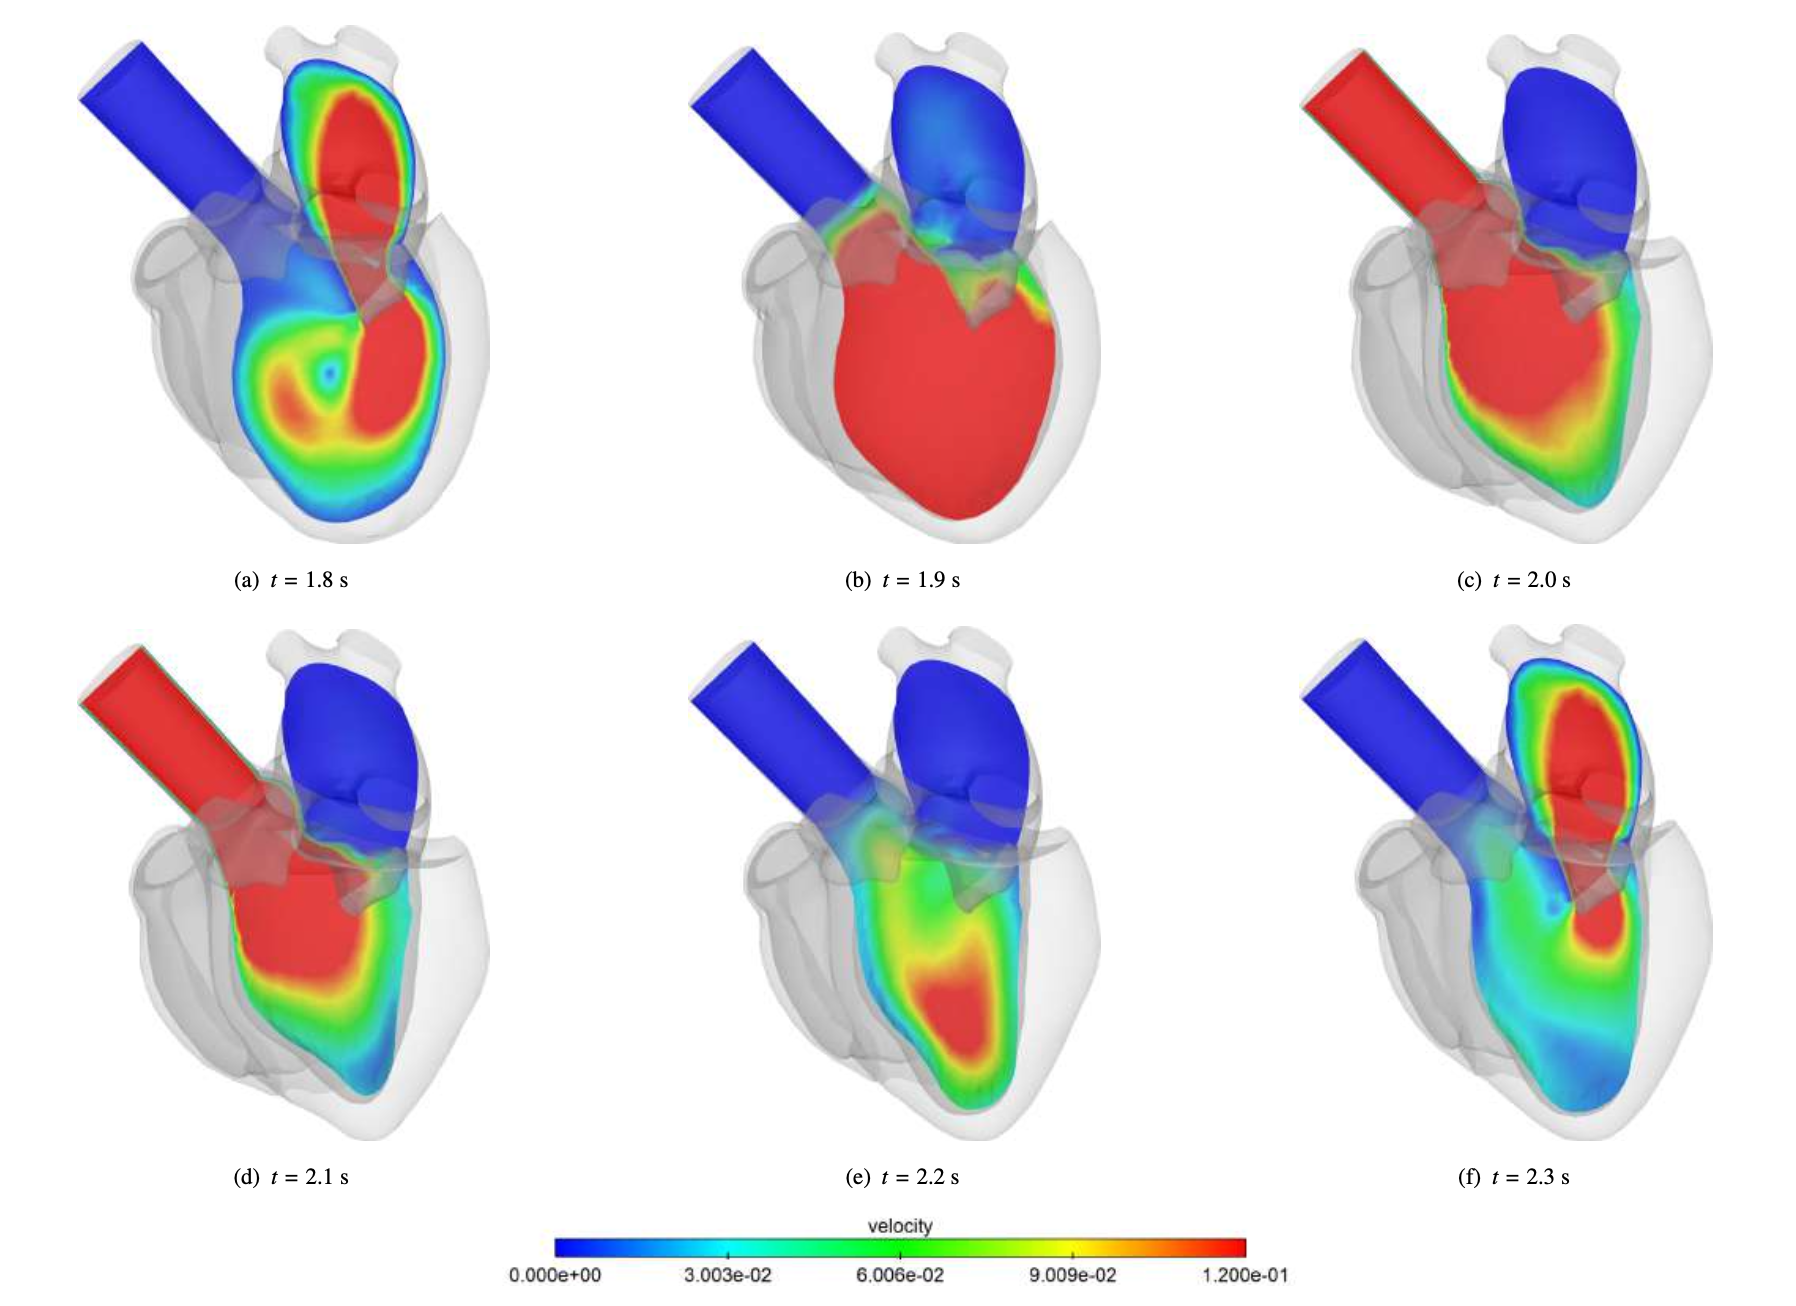
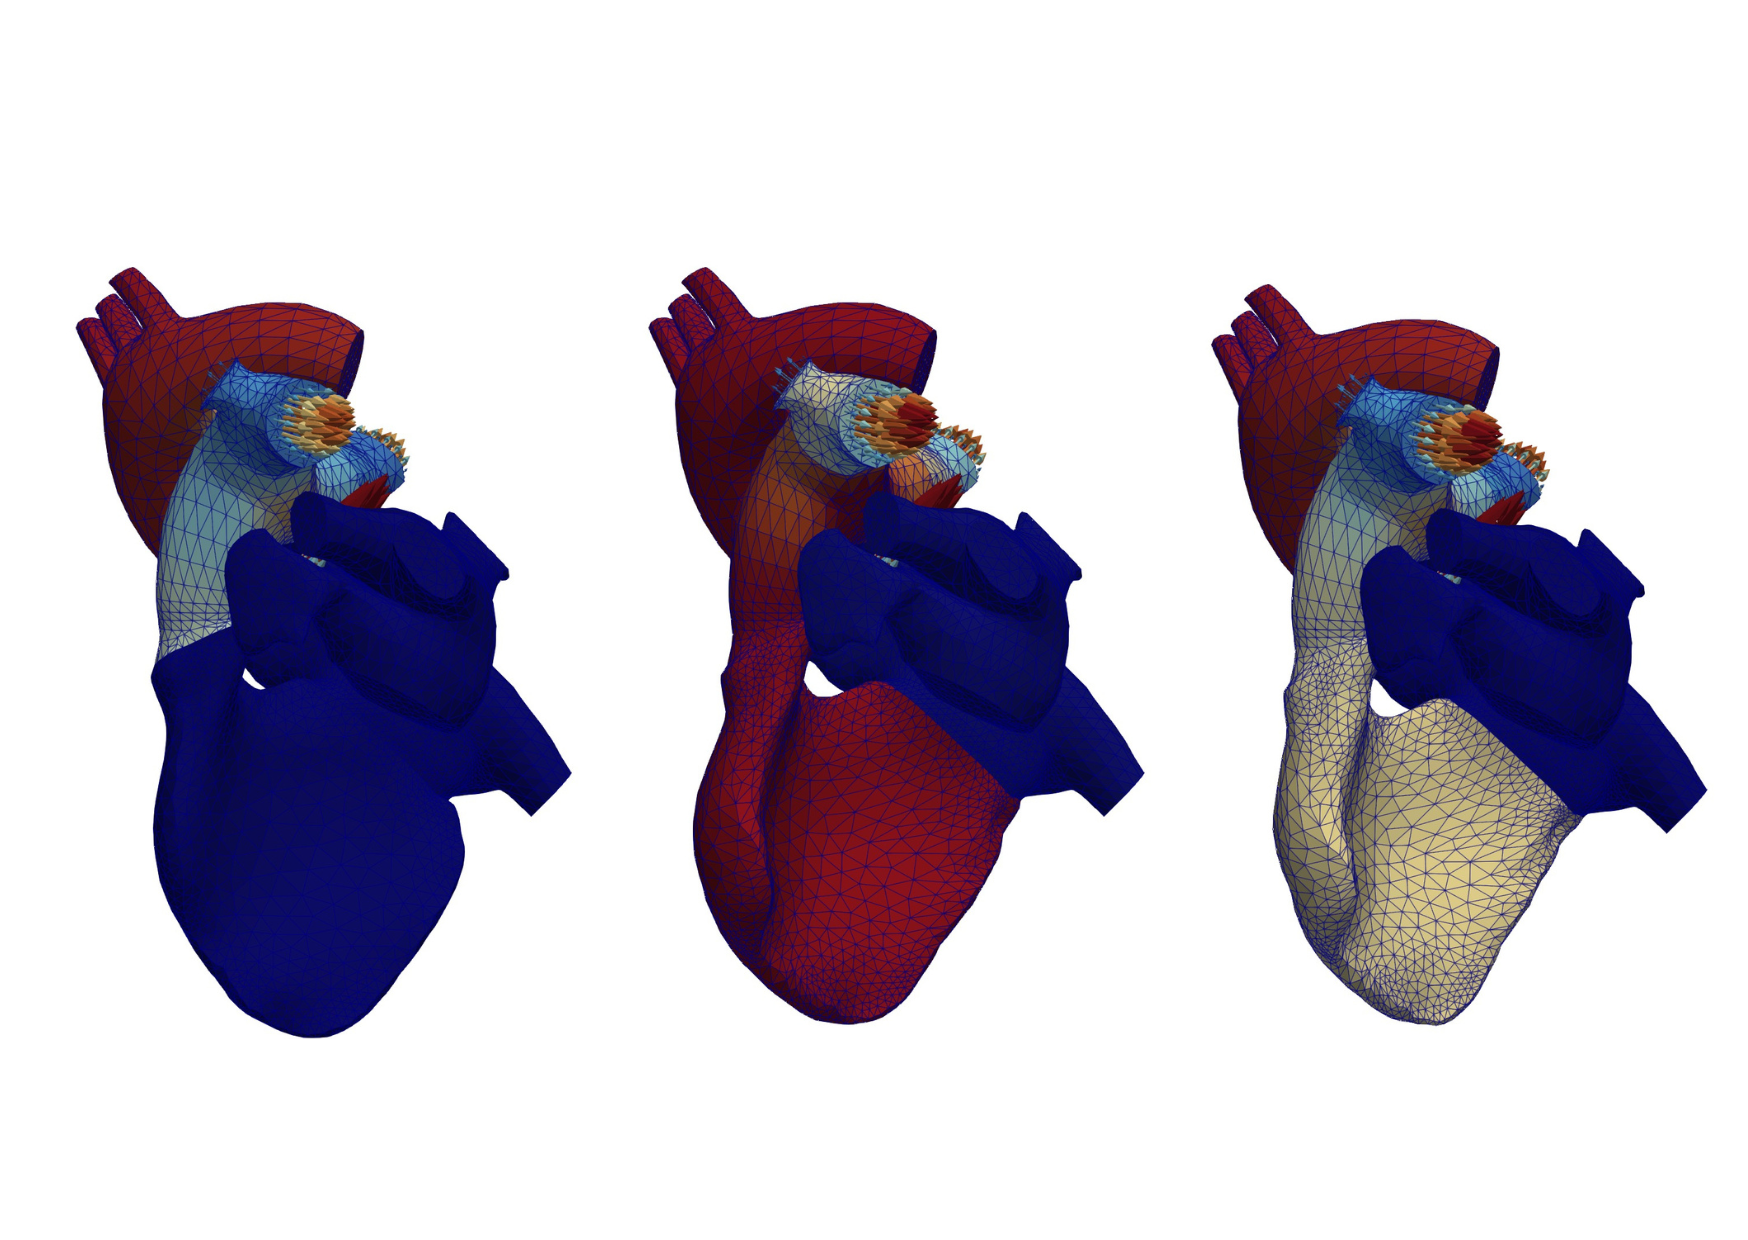
General update

diff --git a/_sass/jekyll-theme-minimal.scss b/_sass/jekyll-theme-minimal.scss
@@ -57,6 +57,19 @@ h3, h4, h5, h6 {
 
 .cv-page h1 {
   color:#0a2d6b;
+  margin-bottom:32px;
+}
+
+.publications-page h1 {
+  color:#0a2d6b;
+}
+
+.talks-page h1 {
+  color:#0a2d6b;
+}
+
+.teaching-page h1 {
+  color:#0a2d6b;
 }
 
 .cv-page h2 {
@@ -85,7 +98,7 @@ a:hover small {
 }
 
 .wrapper {
-  width:1000px;
+  width:min(1150px, calc(100% - 40px));
   margin:0 auto;
 }
 
@@ -336,7 +349,7 @@ strong {
 }
 
 section {
-  width:600px;
+  width:calc(100% - 350px);
   float:right;
   margin-top:20px;
   padding-bottom:50px;
@@ -441,15 +454,14 @@ footer {
 // Interests section with pictures and labels 
 
 .interests {
-  display:flex;
-  gap:16px;
-  flex-wrap:wrap;
-  justify-content:center;
+  display:grid;
+  grid-template-columns:repeat(3, minmax(0, 1fr));
+  gap:12px;
 }
 
 .interest {
   text-align:center;
-  width:220px;
+  width:auto;
 }
 
 .interest img {

diff --git a/index.md b/index.md
@@ -5,7 +5,9 @@ page_class: about-page
 
 # About me
 
-I am a 1st year PhD student at [INRIA, Paris](https://www.inria.fr/fr) and a member of the [Laboratoire Jacques-Louis-Lions](https://www.ljll.fr) at Sorbonne Université. I work within the [COMMEDIA project team](https://team.inria.fr/commedia/), under the supervision of [Miguel A. Fernández](https://team.inria.fr/commedia/fernandez/) on modelling and simulating the heart in the Hypoplastic Left Heart Syndrome. 
+I am a 1st year PhD student at [INRIA, Paris](https://www.inria.fr/fr) and a member of the [Laboratoire Jacques-Louis-Lions](https://www.ljll.fr) at Sorbonne Universite. I work within the [COMMEDIA project team](https://team.inria.fr/commedia/), under the supervision of [Miguel A. Fernàndez](https://team.inria.fr/commedia/fernandez/), on modeling and simulation of cardiac hemodynamics in Hypoplastic Left Heart Syndrome (HLHS).
+
+My research combines applied mathematics and scientific computing to build reliable and clinically meaningful cardiac models. 
 
 ## Contact Information
 Centre Inria Paris, Office B404
@@ -19,130 +21,11 @@ Email : renee.crispo@inria.fr
     <div class="label">Numerical Analysis</div>
   </div>
   <div class="interest">
+    <img src="/assets/img/fsi.png" alt="Interest 2" />
+    <div class="label">Fluid-Structure Interaction</div>
+  </div>
+  <div class="interest">
     <img src="/assets/img/cardiac-model.png" alt="Interest 2" />
     <div class="label">Cardiac Modelling</div>
   </div>
 </div>
-
-
-<!--
-Text can be **bold**, _italic_, or ~~strikethrough~~.
-
-[Link to another page](./another-page.html).
-
-There should be whitespace between paragraphs.
-
-There should be whitespace between paragraphs. We recommend including a README, or a file with information about your project.
-
-# Header 1
-
-This is a normal paragraph following a header. GitHub is a code hosting platform for version control and collaboration. It lets you and others work together on projects from anywhere.
-
-## Header 2
-
-> This is a blockquote following a header.
->
-> When something is important enough, you do it even if the odds are not in your favor.
-
-### Header 3
-
-```js
-// Javascript code with syntax highlighting.
-var fun = function lang(l) {
-  dateformat.i18n = require('./lang/' + l)
-  return true;
-}
-```
-
-```ruby
-# Ruby code with syntax highlighting
-GitHubPages::Dependencies.gems.each do |gem, version|
-  s.add_dependency(gem, "= #{version}")
-end
-```
-
-#### Header 4
-
-*   This is an unordered list following a header.
-*   This is an unordered list following a header.
-*   This is an unordered list following a header.
-
-##### Header 5
-
-1.  This is an ordered list following a header.
-2.  This is an ordered list following a header.
-3.  This is an ordered list following a header.
-
-###### Header 6
-
-| head1        | head two          | three |
-|:-------------|:------------------|:------|
-| ok           | good swedish fish | nice  |
-| out of stock | good and plenty   | nice  |
-| ok           | good `oreos`      | hmm   |
-| ok           | good `zoute` drop | yumm  |
-
-### There's a horizontal rule below this.
-
-* * *
-
-### Here is an unordered list:
-
-*   Item foo
-*   Item bar
-*   Item baz
-*   Item zip
-
-### And an ordered list:
-
-1.  Item one
-1.  Item two
-1.  Item three
-1.  Item four
-
-### And a nested list:
-
-- level 1 item
-  - level 2 item
-  - level 2 item
-    - level 3 item
-    - level 3 item
-- level 1 item
-  - level 2 item
-  - level 2 item
-  - level 2 item
-- level 1 item
-  - level 2 item
-  - level 2 item
-- level 1 item
-
-### Small image
-
-![Octocat](https://github.githubassets.com/images/icons/emoji/octocat.png)
-
-### Large image
-
-![Branching](https://guides.github.com/activities/hello-world/branching.png)
-
-
-### Definition lists can be used with HTML syntax.
-
-<dl>
-<dt>Name</dt>
-<dd>Godzilla</dd>
-<dt>Born</dt>
-<dd>1952</dd>
-<dt>Birthplace</dt>
-<dd>Japan</dd>
-<dt>Color</dt>
-<dd>Green</dd>
-</dl>
-
-```
-Long, single-line code blocks should not wrap. They should horizontally scroll if they are too long. This line should be long enough to demonstrate this.
-```
-
-```
-The final element.
-```
--->

diff --git a/teaching.md b/teaching.md
@@ -1,8 +1,8 @@
 ---
 layout: default
 title: Teaching
+page_class: teaching-page
 ---
 
 # Teaching
-
-Add your teaching content here.
+I have provided private tutoring in mathematics, physics, and chemistry to middle- and high-school students.

diff --git a/talks.md b/talks.md
@@ -1,8 +1,9 @@
 ---
 layout: default
 title: Talks
+page_class: talks-page
 ---
 
 # Talks
 
-Add your talks here.
+This page will include invited talks, seminars, and conference presentations.

diff --git a/publications.md b/publications.md
@@ -1,8 +1,9 @@
 ---
 layout: default
 title: Publications
+page_class: publications-page
 ---
 
 # Publications
 
-Add your publications here.
+Future publications will be listed here.
